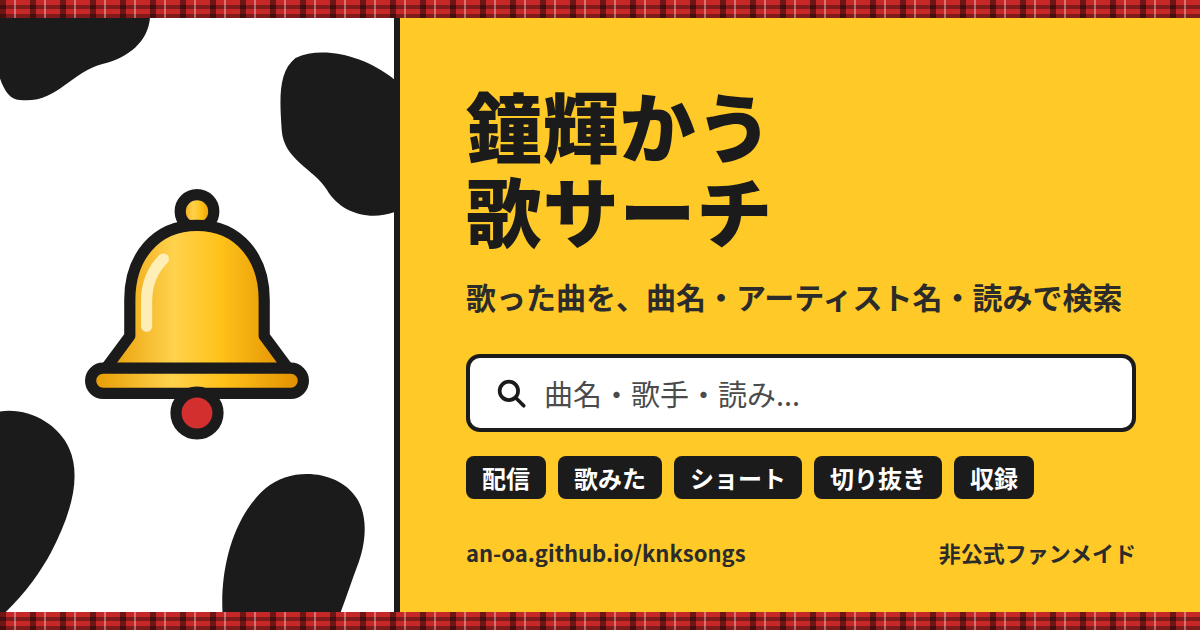
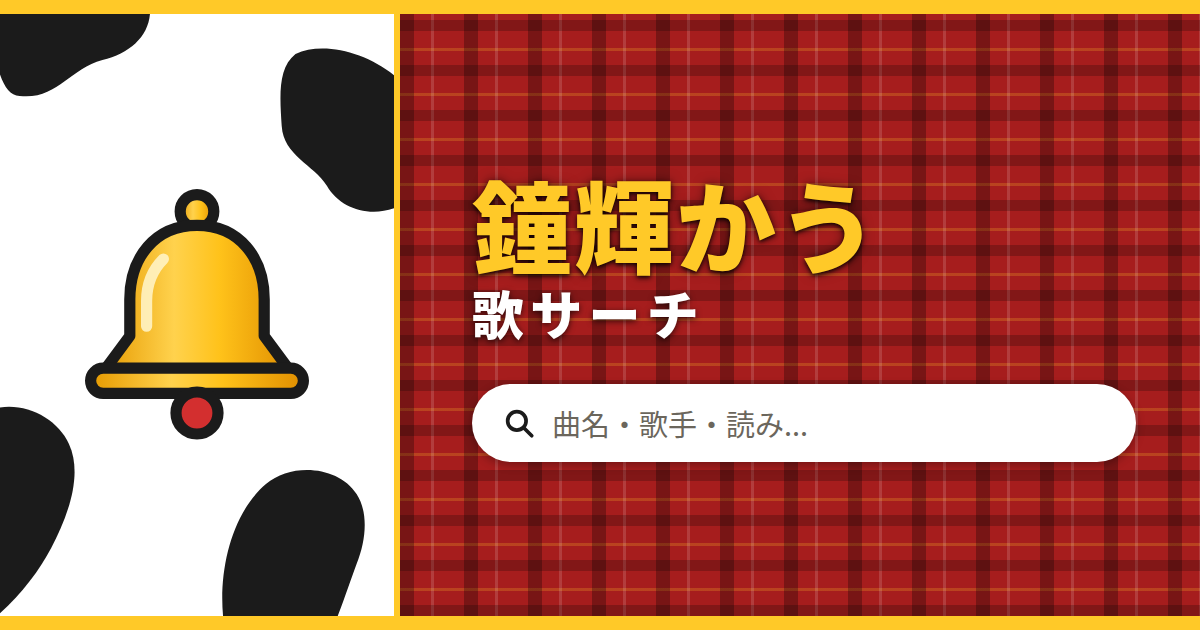
feat: put the talent name first in the wordmark and refresh the OGP image
- ヘッダーの文字ロゴで鐘輝かうを大きく鐘の色で示し、
  歌サーチを小さく添える上下関係に改めた。
- OGP画像の右側をダークテーマのヘッダーと同じ赤いチェック柄にし、
  上下の帯と仕切りを金色にしてライトとダークの折衷にした。
- OGP画像から説明文・URL・非公式表記・タグを外し、
  鐘と文字ロゴと検索窓だけで見せる構成にした。

diff --git a/design/brand/ogp.html b/design/brand/ogp.html
@@ -6,38 +6,28 @@
 <style>
   * { box-sizing: border-box; }
   html, body { margin: 0; }
+  /*
+   * 左はライトテーマのヘッダー（白地のホルスタイン柄）、右はダークテーマのヘッダー（赤いチェック柄）に揃え、
+   * 両テーマの折衷にする。上下の帯と仕切りはダークのヘッダー下の線と同じ鐘の金色にする。
+   */
   body {
     width: 1200px;
     height: 630px;
     font-family: "Noto Sans CJK JP", "Noto Sans JP", sans-serif;
     background: #ffc928;
-    color: #1b1b1b;
+    color: #ffffff;
     position: relative;
     overflow: hidden;
   }
-  /* 赤のチェック柄はマフラーのモチーフとして上下の細い帯だけに使う。 */
-  .tartan {
-    position: absolute;
-    left: 0;
-    right: 0;
-    height: 18px;
-    background:
-      repeating-linear-gradient(90deg, rgba(0,0,0,.45) 0 6px, transparent 6px 30px),
-      repeating-linear-gradient(90deg, transparent 0 14px, rgba(255,255,255,.35) 14px 16px, transparent 16px 30px),
-      repeating-linear-gradient(0deg, rgba(0,0,0,.35) 0 4px, transparent 4px 9px),
-      #c62828;
-  }
-  .tartan.top { top: 0; }
-  .tartan.bottom { bottom: 0; }
   .panel {
     position: absolute;
-    top: 18px;
-    bottom: 18px;
+    top: 14px;
+    bottom: 14px;
     left: 0;
     width: 400px;
     background: #fff;
     overflow: hidden;
-    border-right: 6px solid #1b1b1b;
+    border-right: 6px solid #ffc928;
   }
   .panel .spots { position: absolute; inset: 0; width: 100%; height: 100%; }
   .panel .bell {
@@ -48,71 +38,69 @@
     top: 50%;
     transform: translate(-50%, -50%);
   }
+  /* styles.css のダークのヘッダーと同じチェック柄を、画像の大きさに合わせて約1.4倍にする。 */
   .wrap {
     position: absolute;
-    top: 18px;
-    bottom: 18px;
-    left: 406px;
+    top: 14px;
+    bottom: 14px;
+    left: 400px;
     right: 0;
-    padding: 64px 64px 44px 60px;
+    padding: 0 64px 0 72px;
     display: flex;
     flex-direction: column;
+    /* タイトルと検索窓は左の鐘と同じ高さを中心に置く。 */
+    justify-content: center;
+    background:
+      repeating-linear-gradient(90deg, rgba(0,0,0,.28) 0 14px, transparent 14px 64px),
+      repeating-linear-gradient(0deg, rgba(0,0,0,.22) 0 11px, transparent 11px 45px),
+      repeating-linear-gradient(90deg, transparent 0 31px, rgba(255,255,255,.14) 31px 34px, transparent 34px 64px),
+      repeating-linear-gradient(0deg, transparent 0 25px, rgba(255,201,40,.22) 25px 28px, transparent 28px 45px),
+      #a61d1d;
   }
+  /*
+   * ヘッダーの文字ロゴと同じく「鐘輝かう」を大きく金色に、「歌サーチ」を小さく添える。
+   * チェック柄の上の文字は、柄の明るい線と重なっても読めるよう影を付ける。
+   */
   .title {
     margin: 0;
-    font-size: 76px;
+    display: flex;
+    flex-direction: column;
     font-weight: 900;
-    line-height: 1.12;
-    letter-spacing: 0.01em;
   }
-  .lead {
-    margin: 22px 0 0;
-    font-size: 30px;
-    font-weight: 700;
-    color: #2b2b2b;
+  .title .main {
+    font-size: 100px;
+    line-height: 1.1;
+    letter-spacing: 0.02em;
+    color: #ffc928;
+    text-shadow: 0 2px 4px rgba(0,0,0,.85), 0 0 12px rgba(0,0,0,.5);
   }
+  .title .sub {
+    margin-top: 4px;
+    font-size: 52px;
+    line-height: 1.2;
+    letter-spacing: 0.12em;
+    text-shadow: 0 2px 6px rgba(0,0,0,.7);
+  }
+  /* 画像は読ませずに見せるものなので、タグや説明文は置かない。検索窓はサイトと同じく例文入りで見せる。 */
   .search {
-    margin-top: 36px;
+    margin-top: 40px;
     height: 78px;
-    border-radius: 14px;
+    border-radius: 999px;
     background: #fff;
-    border: 4px solid #1b1b1b;
+    box-shadow: 0 3px 10px rgba(0,0,0,.3);
     display: flex;
     align-items: center;
     gap: 16px;
-    padding: 0 24px;
+    padding: 0 30px;
     font-size: 29px;
-    color: #4b4b4b;
+    color: #6b665c;
   }
   .search svg { width: 34px; height: 34px; flex: none; }
-  .tags {
-    margin-top: 24px;
-    display: flex;
-    gap: 12px;
-    flex-wrap: wrap;
-  }
-  .tag {
-    font-size: 24px;
-    font-weight: 700;
-    padding: 4px 16px;
-    border-radius: 8px;
-    background: #1b1b1b;
-    color: #fff;
-  }
-  .foot {
-    margin-top: auto;
-    display: flex;
-    justify-content: space-between;
-    font-size: 22px;
-    font-weight: 700;
-    color: #2b2b2b;
-  }
 </style>
 </head>
 <body>
-  <div class="tartan top"></div>
   <div class="panel">
-    <svg class="spots" viewBox="0 0 400 594" preserveAspectRatio="none"><g fill="#1b1b1b">
+    <svg class="spots" viewBox="0 0 400 602" preserveAspectRatio="none"><g fill="#1b1b1b">
       <path d="M-20 -20h170c10 34-12 58-46 66-34 9-46 40-84 36-22-2-24-40-40-102z"/>
       <path d="M300 40c30-14 80 0 110 30v120c-30 16-64 6-78-18-14-22-44-30-46-60-2-30-4-58 14-72z"/>
       <path d="M-20 400c34-18 76 0 90 30 14 30 0 70-18 104-14 26-40 60-72 80z"/>
@@ -122,24 +110,11 @@
     <img class="bell" src="../../bell.svg" alt="">
   </div>
   <div class="wrap">
-    <h1 class="title">鐘輝かう<br>歌サーチ</h1>
-    <p class="lead">歌った曲を、曲名・アーティスト名・読みで検索</p>
+    <h1 class="title"><span class="main">鐘輝かう</span><span class="sub">歌サーチ</span></h1>
     <div class="search">
       <svg viewBox="0 0 24 24" fill="none" stroke="#1b1b1b" stroke-width="2.6" stroke-linecap="round"><circle cx="10.5" cy="10.5" r="6.5"/><path d="M15.5 15.5 21 21"/></svg>
       曲名・歌手・読み...
     </div>
-    <div class="tags">
-      <span class="tag">配信</span>
-      <span class="tag">歌みた</span>
-      <span class="tag">ショート</span>
-      <span class="tag">切り抜き</span>
-      <span class="tag">収録</span>
-    </div>
-    <div class="foot">
-      <span>an-oa.github.io/knksongs</span>
-      <span>非公式ファンメイド</span>
-    </div>
   </div>
-  <div class="tartan bottom"></div>
 </body>
 </html>

diff --git a/styles.css b/styles.css
@@ -200,26 +200,27 @@ body.hide-thumbs .thumb {
   gap: 2px;
 }
 
-.header-wordmark-sub {
-  color: var(--primary-color);
-  font-size: 12px;
-  font-weight: 700;
-  letter-spacing: 0.12em;
-}
-
+/* 誰のサイトかが先に伝わるよう「鐘輝かう」を大きく、鐘の色で示し、「歌サーチ」を小さく添える。 */
 .header-wordmark-main {
+  color: var(--primary-color);
   font-size: 21px;
   font-weight: 900;
   letter-spacing: 0.04em;
 }
 
+.header-wordmark-sub {
+  font-size: 12px;
+  font-weight: 700;
+  letter-spacing: 0.12em;
+}
+
 /* チェック柄の上の文字は、柄の明るい線と重なっても読めるよう影を付ける。 */
-:root.dark-theme .header-wordmark-sub {
+:root.dark-theme .header-wordmark-main {
   text-shadow: 0 1px 2px rgba(0, 0, 0, 0.85), 0 0 6px rgba(0, 0, 0, 0.6);
 }
-:root.dark-theme .header-wordmark-main {
+:root.dark-theme .header-wordmark-sub {
   color: #ffffff;
-  text-shadow: 0 1px 3px rgba(0, 0, 0, 0.6);
+  text-shadow: 0 1px 3px rgba(0, 0, 0, 0.8);
 }
 
 .header-search-area {

diff --git a/index.html b/index.html
@@ -256,8 +256,8 @@
       <h1 class="header-title">
         <img class="header-logo" src="bell.svg" alt="" width="36" height="36">
         <span class="header-wordmark">
-          <span class="header-wordmark-sub">鐘輝かう</span>
-          <span class="header-wordmark-main">歌サーチ</span>
+          <span class="header-wordmark-main">鐘輝かう</span>
+          <span class="header-wordmark-sub">歌サーチ</span>
         </span>
       </h1>
       <div class="header-search-area">

diff --git a/DESIGN.md b/DESIGN.md
@@ -58,7 +58,7 @@
 
 ## UI構成
 - **ヘッダー**：ロゴ・検索・絞り込み導線
-  - 鐘のロゴと「鐘輝かう / 歌サーチ」の文字ロゴ
+  - 鐘のロゴと「鐘輝かう / 歌サーチ」の文字ロゴ（「鐘輝かう」を大きく、「歌サーチ」を小さく添える）
   - 検索入力（狭い画面ではロゴと絞り込みボタンの下の2段目）
   - 「絞り込み」ボタン（サイドバーを開く）
   - ライトは白地にホルスタイン柄の斑点（文字・検索窓・ボタンに掛けない）、ダークは赤いチェック柄
